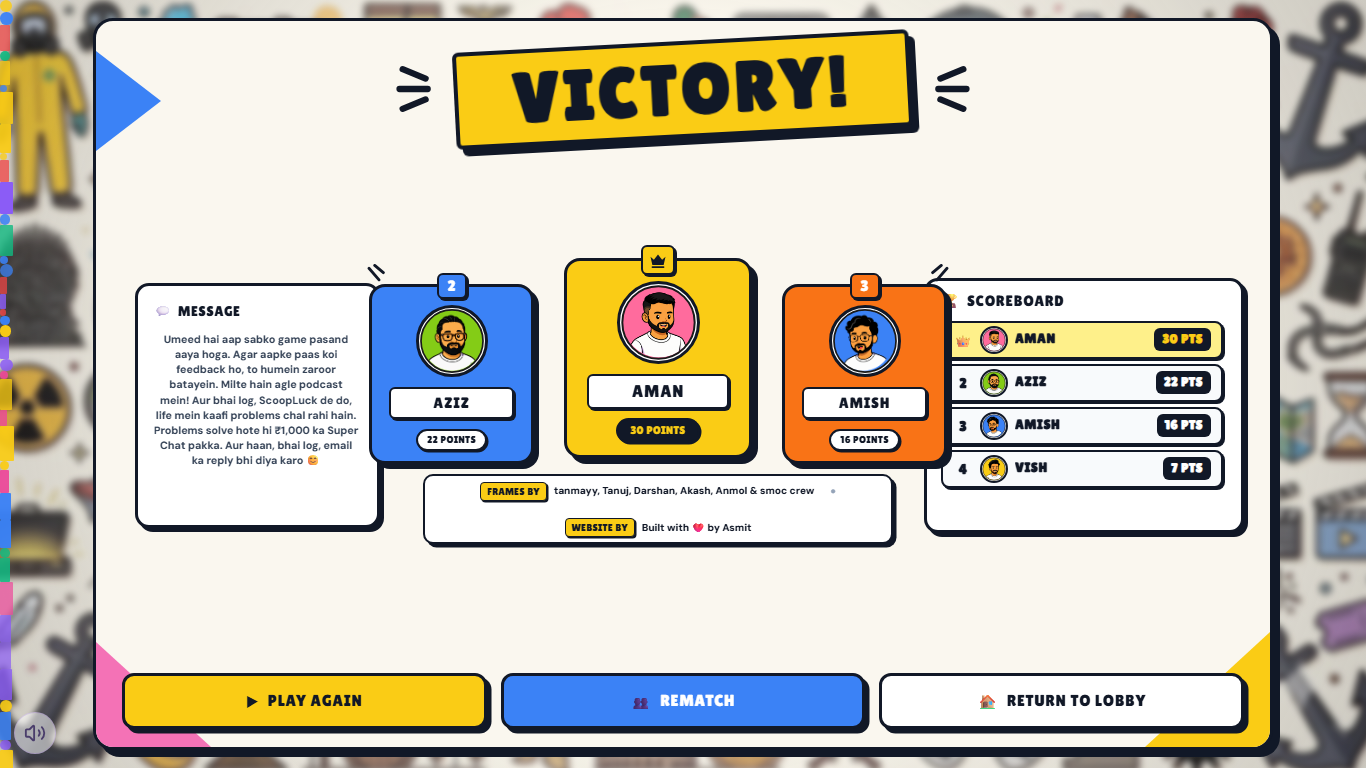
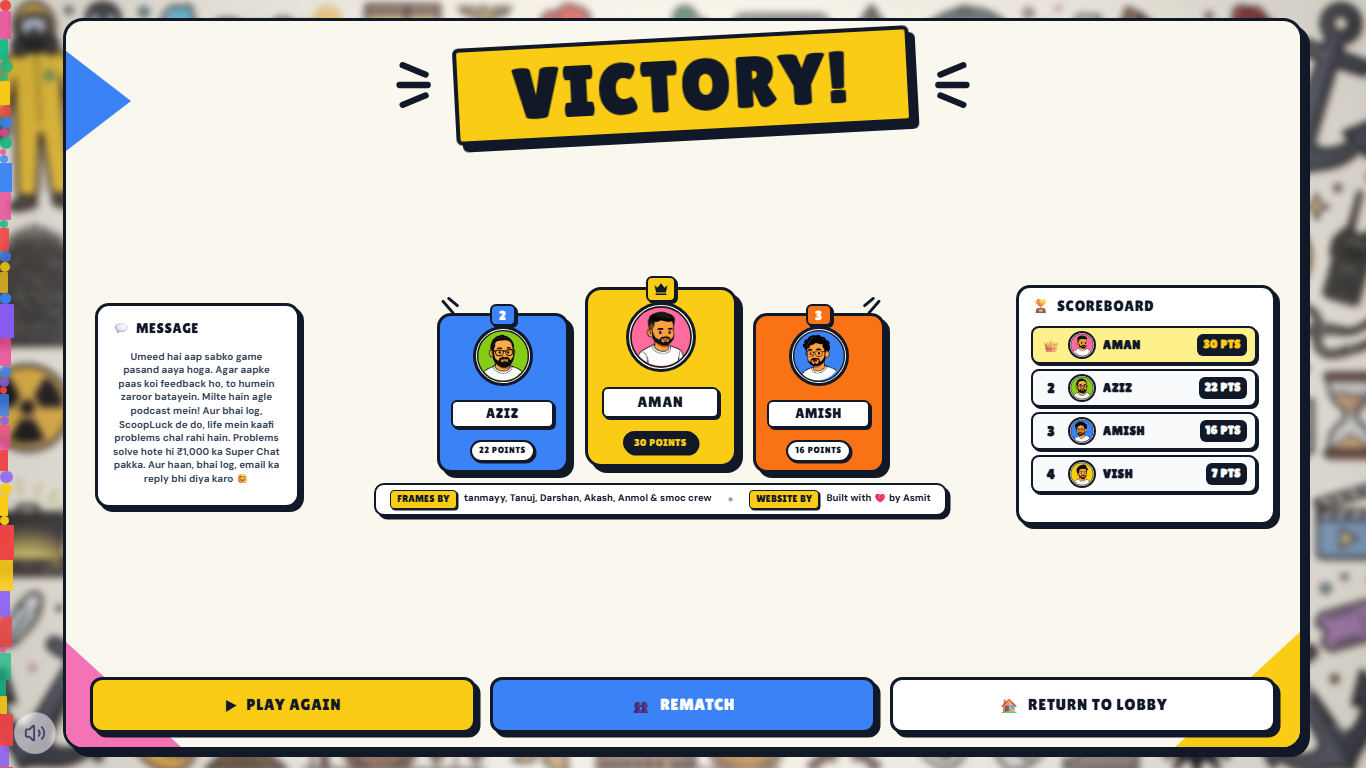
fix(winner): resolve element overlaps with proportional scaling and zero-collision layout

Changed region(s): [[0.0, 0.0, 0.9839, 1.0], [0.2767, 0.0312, 0.6764, 0.2188], [0.6764, 0.0625, 0.7072, 0.1562]]

diff --git a/index.html b/index.html
@@ -12013,6 +12013,134 @@
       font-weight: 900 !important;
       user-select: none !important;
     }
+  
+    /* ── NO OVERLAP REFINEMENTS ── */
+    .comic-winner-card {
+      max-width: 1240px !important;
+      padding: clamp(8px, 1.2vw, 14px) clamp(16px, 1.8vw, 24px) !important;
+    }
+    .cw-center-stage-grid {
+      display: grid !important;
+      grid-template-columns: minmax(180px, 215px) 1fr minmax(215px, 260px) !important;
+      gap: clamp(14px, 1.8vw, 24px) !important;
+      align-items: center !important;
+      width: 100% !important;
+    }
+    .cw-left-col .cw-msg-card {
+      width: clamp(180px, 15vw, 215px) !important;
+      height: clamp(180px, 15vw, 215px) !important;
+      aspect-ratio: 1 / 1 !important;
+      padding: clamp(10px, 1vw, 14px) !important;
+    }
+    .cw-left-col .cw-msg-card .cw-info-text {
+      font-size: clamp(8.5px, 0.72vw, 10px) !important;
+      line-height: 1.38 !important;
+    }
+
+    /* 3 Runner Cards - Proportional 0.75x fit with no stage overflow */
+    .cw-stage-section {
+      display: flex !important;
+      align-items: flex-end !important;
+      justify-content: center !important;
+      gap: clamp(8px, 1.2vw, 16px) !important;
+      width: 100% !important;
+      max-width: 500px !important;
+      margin: 0 auto !important;
+      padding: 0 !important;
+    }
+    .cw-runner-card {
+      width: clamp(112px, 10vw, 132px) !important;
+      height: clamp(160px, 20vh, 185px) !important;
+      padding: 8px 6px !important;
+      border-radius: 14px !important;
+    }
+    .runner-gold {
+      width: clamp(128px, 11.8vw, 152px) !important;
+      height: clamp(180px, 22.5vh, 206px) !important;
+      padding: 10px 8px !important;
+      border-radius: 16px !important;
+    }
+    .runner-avatar-frame {
+      width: clamp(48px, 4.8vw, 60px) !important;
+      height: clamp(48px, 4.8vw, 60px) !important;
+    }
+    .champ-avatar-frame {
+      width: clamp(56px, 5.6vw, 70px) !important;
+      height: clamp(56px, 5.6vw, 70px) !important;
+    }
+    .runner-nameplate {
+      font-size: clamp(11px, 1.1vw, 13.5px) !important;
+      padding: 2px 6px !important;
+      margin-bottom: 2px !important;
+    }
+    .champ-nameplate {
+      font-size: clamp(12px, 1.2vw, 15px) !important;
+      padding: 2.5px 8px !important;
+    }
+    .runner-score-tag {
+      font-size: 9px !important;
+      padding: 2px 7px !important;
+    }
+    .gold-score-tag {
+      font-size: 10px !important;
+      padding: 2px 9px !important;
+    }
+    .runner-rank-tab {
+      width: 26px !important;
+      height: 22px !important;
+      font-size: 13px !important;
+      top: -12px !important;
+    }
+    .gold-tab {
+      width: 30px !important;
+      height: 26px !important;
+      top: -14px !important;
+    }
+    .gold-tab svg {
+      width: 16px !important;
+      height: 13px !important;
+    }
+
+    /* Burst icons adjusted so they don't protrude into side columns */
+    .burst-left {
+      left: 0px !important;
+      top: -16px !important;
+    }
+    .burst-right {
+      right: 0px !important;
+      top: -16px !important;
+    }
+
+    /* Scoreboard */
+    .cw-right-col .cw-scoreboard-card {
+      width: 100% !important;
+      height: clamp(190px, 16vw, 230px) !important;
+      max-height: 240px !important;
+      padding: 8px 12px !important;
+    }
+    .cw-right-col .sb-row {
+      padding: 3px 8px !important;
+      gap: 5px !important;
+      font-size: 12px !important;
+    }
+    .cw-right-col .sb-name {
+      font-size: 12.5px !important;
+    }
+    .cw-right-col .sb-score {
+      font-size: 11.5px !important;
+      padding: 2px 6px !important;
+    }
+
+    /* Credits below players */
+    .cw-credits-below-players {
+      margin-top: 4px !important;
+      padding: 4px 14px !important;
+      max-width: 95% !important;
+    }
+    .cw-credit-names {
+      font-size: 9.5px !important;
+    }
+
   </style>
   <!-- Appwrite Web SDK & QRCode for Online Multiplayer -->
   <script src="https://cdn.jsdelivr.net/npm/appwrite@14.0.1"></script>

diff --git a/sites/guess-the-frame/index.html b/sites/guess-the-frame/index.html
@@ -12013,6 +12013,134 @@
       font-weight: 900 !important;
       user-select: none !important;
     }
+  
+    /* ── NO OVERLAP REFINEMENTS ── */
+    .comic-winner-card {
+      max-width: 1240px !important;
+      padding: clamp(8px, 1.2vw, 14px) clamp(16px, 1.8vw, 24px) !important;
+    }
+    .cw-center-stage-grid {
+      display: grid !important;
+      grid-template-columns: minmax(180px, 215px) 1fr minmax(215px, 260px) !important;
+      gap: clamp(14px, 1.8vw, 24px) !important;
+      align-items: center !important;
+      width: 100% !important;
+    }
+    .cw-left-col .cw-msg-card {
+      width: clamp(180px, 15vw, 215px) !important;
+      height: clamp(180px, 15vw, 215px) !important;
+      aspect-ratio: 1 / 1 !important;
+      padding: clamp(10px, 1vw, 14px) !important;
+    }
+    .cw-left-col .cw-msg-card .cw-info-text {
+      font-size: clamp(8.5px, 0.72vw, 10px) !important;
+      line-height: 1.38 !important;
+    }
+
+    /* 3 Runner Cards - Proportional 0.75x fit with no stage overflow */
+    .cw-stage-section {
+      display: flex !important;
+      align-items: flex-end !important;
+      justify-content: center !important;
+      gap: clamp(8px, 1.2vw, 16px) !important;
+      width: 100% !important;
+      max-width: 500px !important;
+      margin: 0 auto !important;
+      padding: 0 !important;
+    }
+    .cw-runner-card {
+      width: clamp(112px, 10vw, 132px) !important;
+      height: clamp(160px, 20vh, 185px) !important;
+      padding: 8px 6px !important;
+      border-radius: 14px !important;
+    }
+    .runner-gold {
+      width: clamp(128px, 11.8vw, 152px) !important;
+      height: clamp(180px, 22.5vh, 206px) !important;
+      padding: 10px 8px !important;
+      border-radius: 16px !important;
+    }
+    .runner-avatar-frame {
+      width: clamp(48px, 4.8vw, 60px) !important;
+      height: clamp(48px, 4.8vw, 60px) !important;
+    }
+    .champ-avatar-frame {
+      width: clamp(56px, 5.6vw, 70px) !important;
+      height: clamp(56px, 5.6vw, 70px) !important;
+    }
+    .runner-nameplate {
+      font-size: clamp(11px, 1.1vw, 13.5px) !important;
+      padding: 2px 6px !important;
+      margin-bottom: 2px !important;
+    }
+    .champ-nameplate {
+      font-size: clamp(12px, 1.2vw, 15px) !important;
+      padding: 2.5px 8px !important;
+    }
+    .runner-score-tag {
+      font-size: 9px !important;
+      padding: 2px 7px !important;
+    }
+    .gold-score-tag {
+      font-size: 10px !important;
+      padding: 2px 9px !important;
+    }
+    .runner-rank-tab {
+      width: 26px !important;
+      height: 22px !important;
+      font-size: 13px !important;
+      top: -12px !important;
+    }
+    .gold-tab {
+      width: 30px !important;
+      height: 26px !important;
+      top: -14px !important;
+    }
+    .gold-tab svg {
+      width: 16px !important;
+      height: 13px !important;
+    }
+
+    /* Burst icons adjusted so they don't protrude into side columns */
+    .burst-left {
+      left: 0px !important;
+      top: -16px !important;
+    }
+    .burst-right {
+      right: 0px !important;
+      top: -16px !important;
+    }
+
+    /* Scoreboard */
+    .cw-right-col .cw-scoreboard-card {
+      width: 100% !important;
+      height: clamp(190px, 16vw, 230px) !important;
+      max-height: 240px !important;
+      padding: 8px 12px !important;
+    }
+    .cw-right-col .sb-row {
+      padding: 3px 8px !important;
+      gap: 5px !important;
+      font-size: 12px !important;
+    }
+    .cw-right-col .sb-name {
+      font-size: 12.5px !important;
+    }
+    .cw-right-col .sb-score {
+      font-size: 11.5px !important;
+      padding: 2px 6px !important;
+    }
+
+    /* Credits below players */
+    .cw-credits-below-players {
+      margin-top: 4px !important;
+      padding: 4px 14px !important;
+      max-width: 95% !important;
+    }
+    .cw-credit-names {
+      font-size: 9.5px !important;
+    }
+
   </style>
   <!-- Appwrite Web SDK & QRCode for Online Multiplayer -->
   <script src="https://cdn.jsdelivr.net/npm/appwrite@14.0.1"></script>
